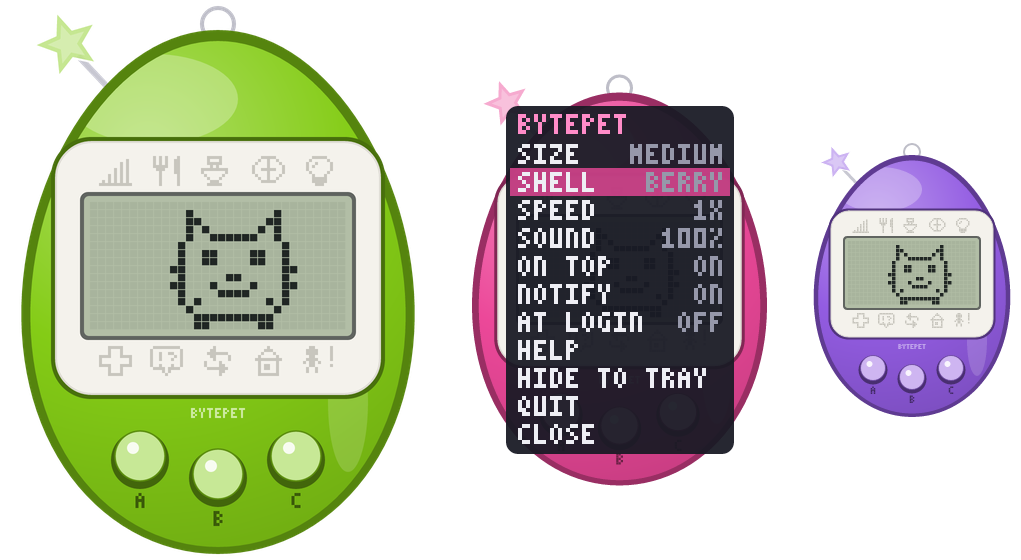
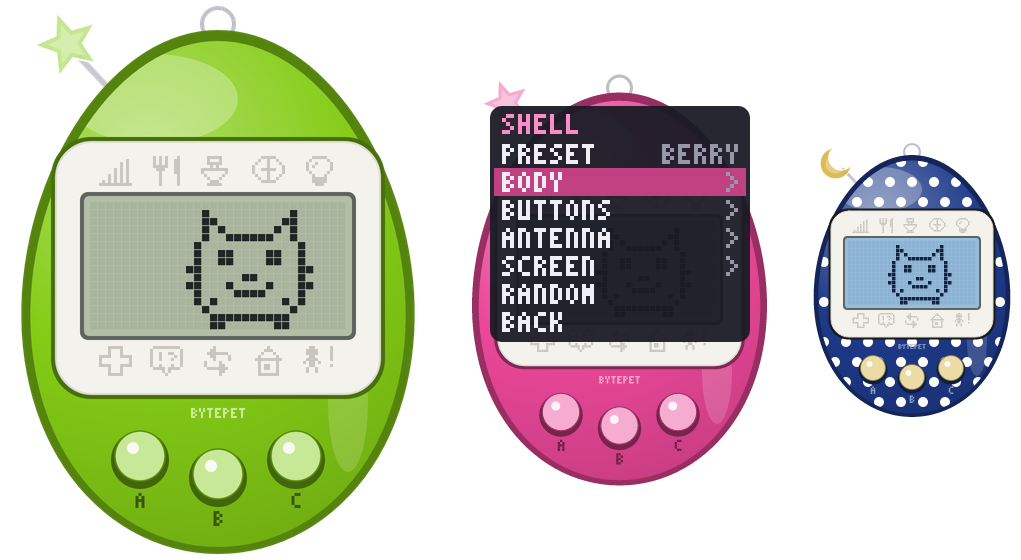
README: mention RANDOM, refresh the screenshot for 2.1.0
The screenshot showed the 2.0.3 settings panel, which 2.1.0 made two
characters wider. Re-rendered from export_art: device_cover at half size,
menu_shell (the new customisation page) and shell_cosmic (a new preset).

diff --git a/README.md b/README.md
@@ -50,8 +50,9 @@ empty space around the egg pass through to whatever is behind it.
 - **Make it yours:** the menu's SHELL page has 12 preset designs, and pages for the body
   (colour, pattern, pattern colour, shine), buttons (colour, shape, letters), antenna (shape,
   colour, key ring) and screen (faceplate, rim, frame, corners, LCD colour). Each part changes on
-  its own. Click a setting for its next option, or use the left and right arrow keys; right-click
-  goes back a page. The tray menu's *Customize* submenu has the same settings.
+  its own, and RANDOM changes every part at once. Click a setting for its next option, or use the
+  left and right arrow keys; right-click goes back a page. The tray menu's *Customize* submenu
+  has the same settings.
 - **Tray or menu-bar icon:** click it to show or hide the pet, or right-click it for the same
   settings. On Windows and macOS Bytepet has no taskbar or Dock button, so the tray icon is
   how you bring it back after hiding it.
